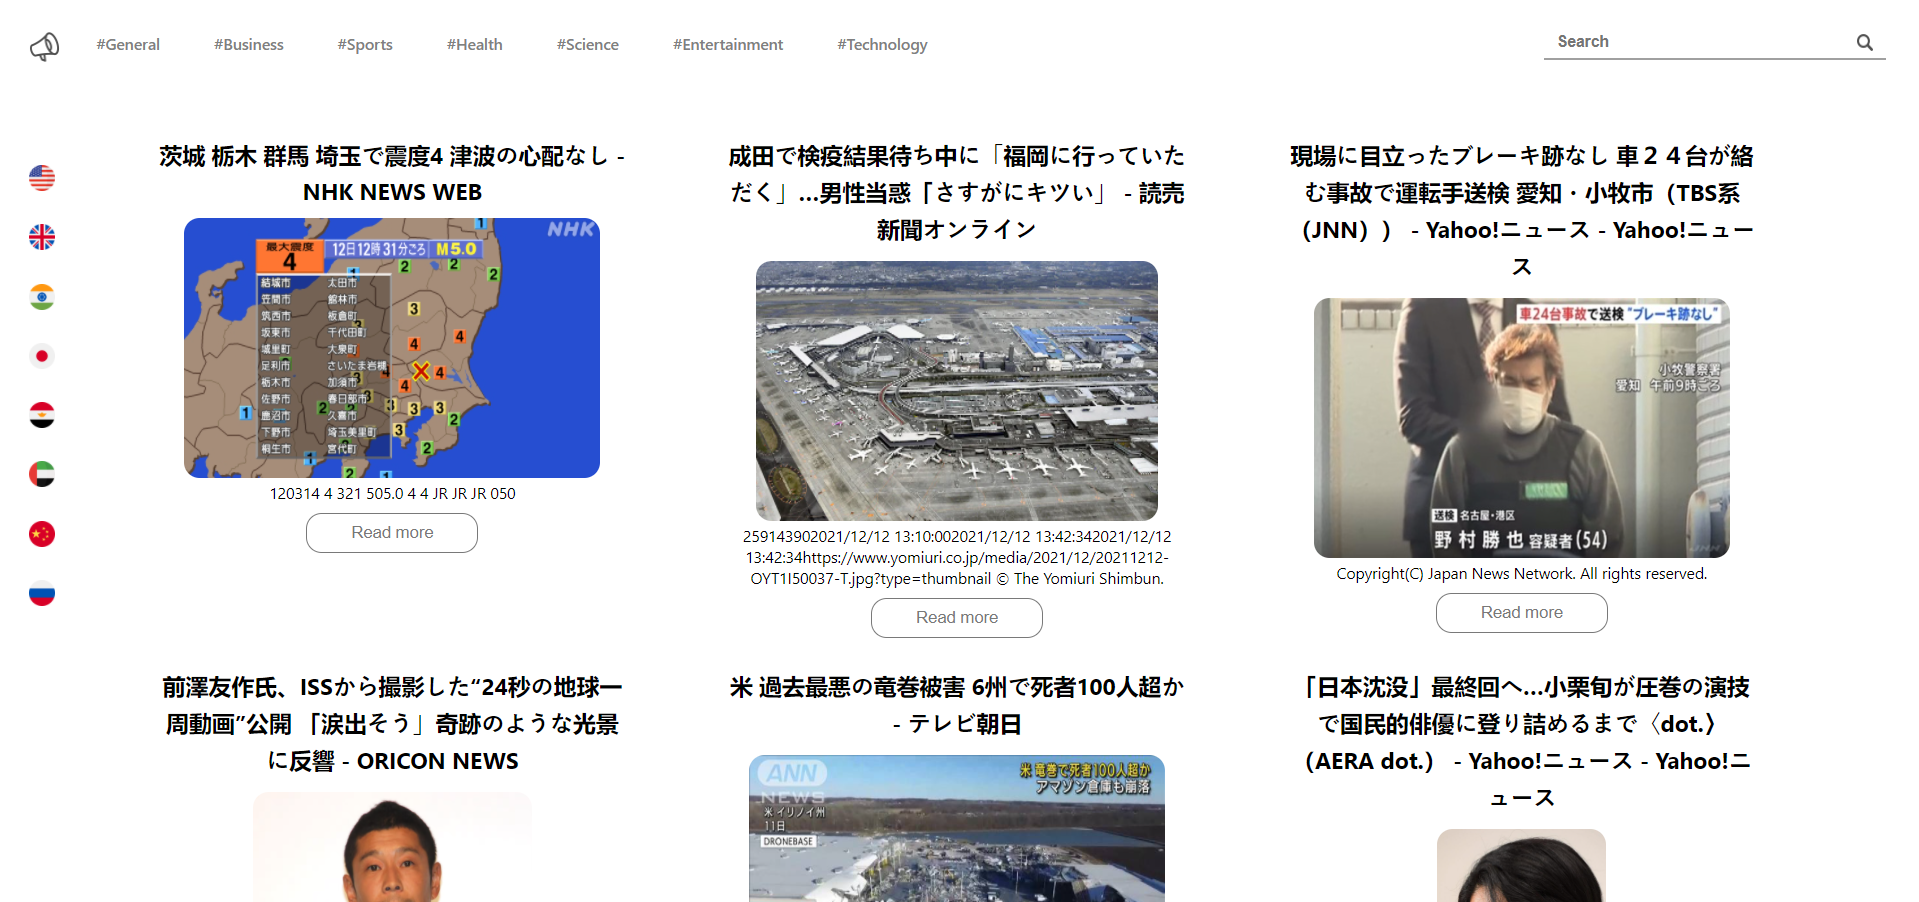
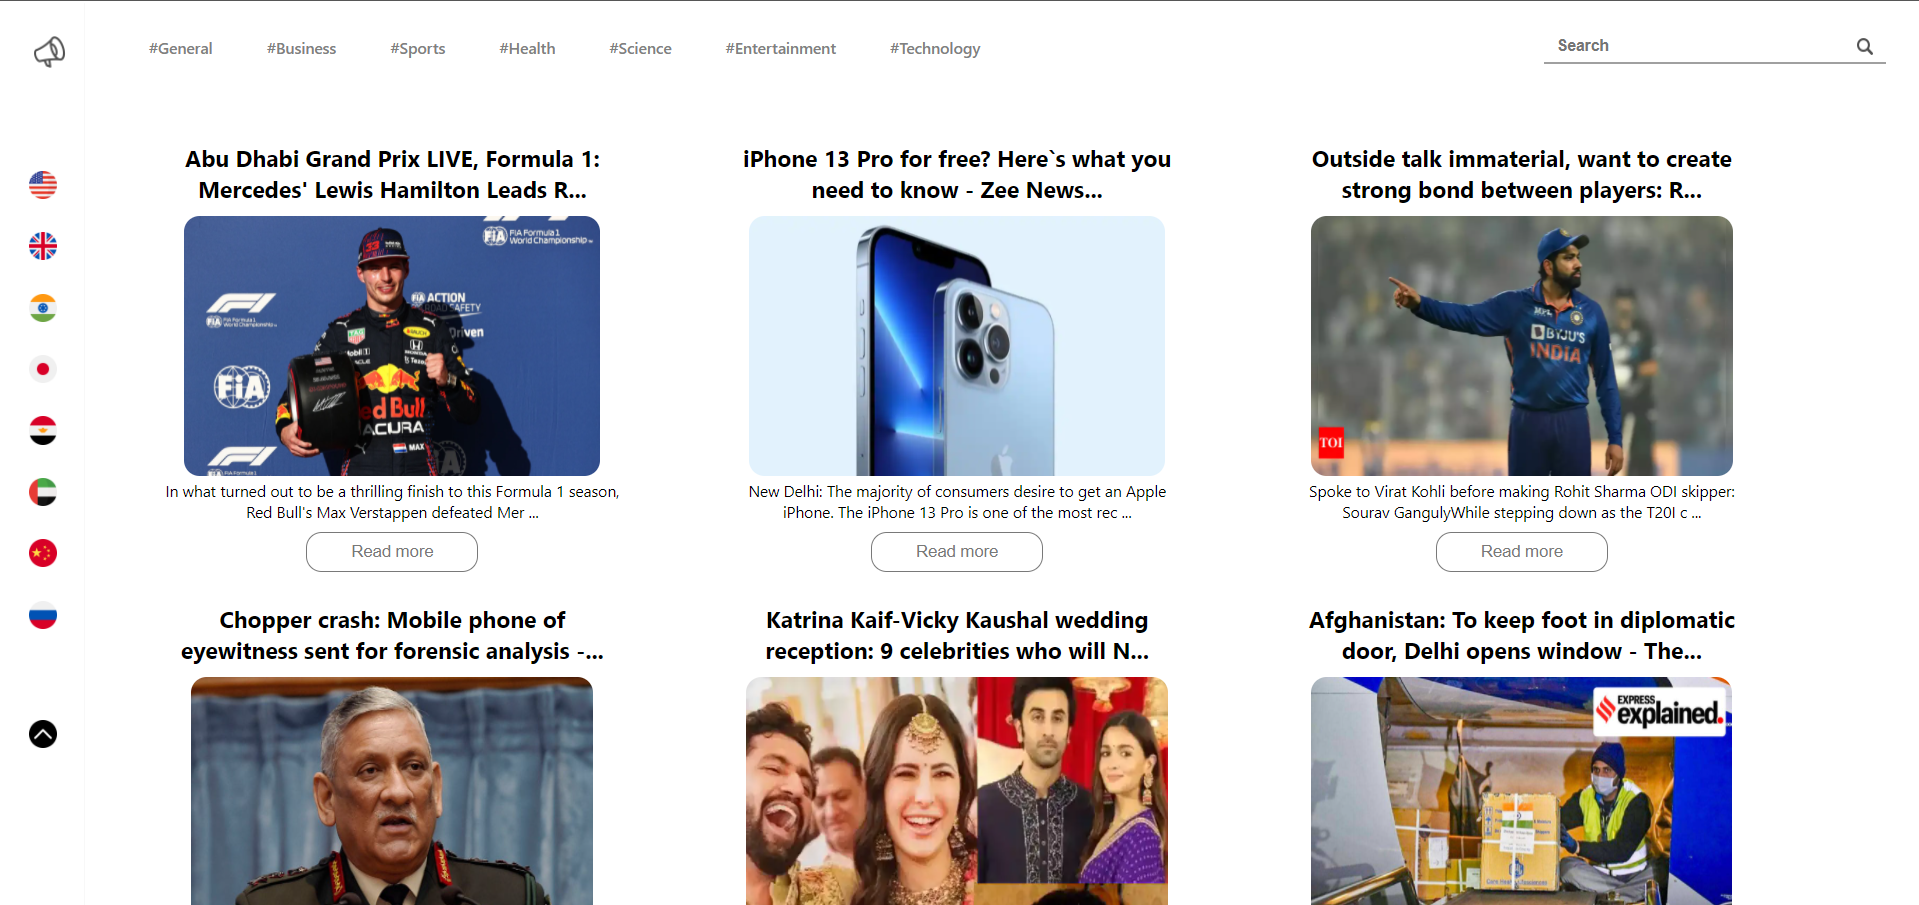
commit

diff --git a/src/Newsframe.js b/src/Newsframe.js
@@ -6,17 +6,16 @@ export default function Newsframe(props) {
             <div className="newsframe">
                 <div className="newsbox">
                     <div className="headlines">
-                        <h3>
-                            {props.headline}
-                        </h3>
+                    { (props.headline) ?<h3>{props.headline.slice(0,70)}...</h3> : <h3> </h3>}
+                        {/* <h3>{props.headline}</h3> */}
                     </div>
-                    <div className="imageurl">{}
-                        <img src={props.img} alt="img" />
+                    <div className="imageurl">
+                        {(props.img)? <img src={props.img} alt="img" />: <img src="https://images.unsplash.com/photo-1585829365295-ab7cd400c167?ixlib=rb-1.2.1&ixid=MnwxMjA3fDB8MHxwaG90by1wYWdlfHx8fGVufDB8fHx8&auto=format&fit=crop&w=1170&q=80" alt="img" />}
+                        {/* <img src={props.img} alt="img" /> */}
                     </div>
                     <div className="content">
-                        <p>
-                           {props.content}
-                        </p>
+                        {(props.content)? <p>{props.content.slice(0,108)} ...</p>:<p> </p>}
+                        {/* <p>{props.content}</p> */}
                     </div>
                     <div className="buttonreadmore">
                         <button>

diff --git a/src/css/Leftbar.css b/src/css/Leftbar.css
@@ -1,6 +1,6 @@
 .flatico{
-    width: 25px;
-    height: 25px;
+    width: 27px;
+    height: 27px;
 }
 .leftbar{
     display: flex;
@@ -10,6 +10,8 @@
     padding: 0 14px;
     z-index: 999;
     background-color: rgb(255, 255, 255);
+    border-right: 0.1px solid rgb(248, 248, 248);
+    box-shadow: inset;
     position: fixed;
     top:2px;
 }
@@ -22,8 +24,8 @@
     cursor: pointer;
 }
 .logoimg{
-    width: 30px;
-    height: 30px;
+    width: 32px;
+    height: 32px;
     margin-bottom: 9vh;
     margin-top: 31px;
 

diff --git a/src/App.js b/src/App.js
@@ -19,6 +19,8 @@ function App() {
     async function getData() {
       const response = await axios.get(api)
       setNews(response.data.articles);
+      
+      return ()=>{setNews("");setCat('');setCountry('');setApi('')}
     }
     getData()
   }, [api])

diff --git a/src/css/Navbar.css b/src/css/Navbar.css
@@ -10,7 +10,8 @@
     display: flex;
     flex-direction: row;
     /* overflow-x: scroll; */
-    margin-left: auto;
+    margin-left:auto;
+    padding-left: 65px;
 }
 .tagsnavbar p{
     font-size: 15px;

diff --git a/src/index.css b/src/index.css
@@ -5,6 +5,7 @@
   -moz-user-select: -moz-none;
   -o-user-select: none;
   user-select: none;
+  scroll-behavior: smooth;
 }
   body {
     height: 100%;
